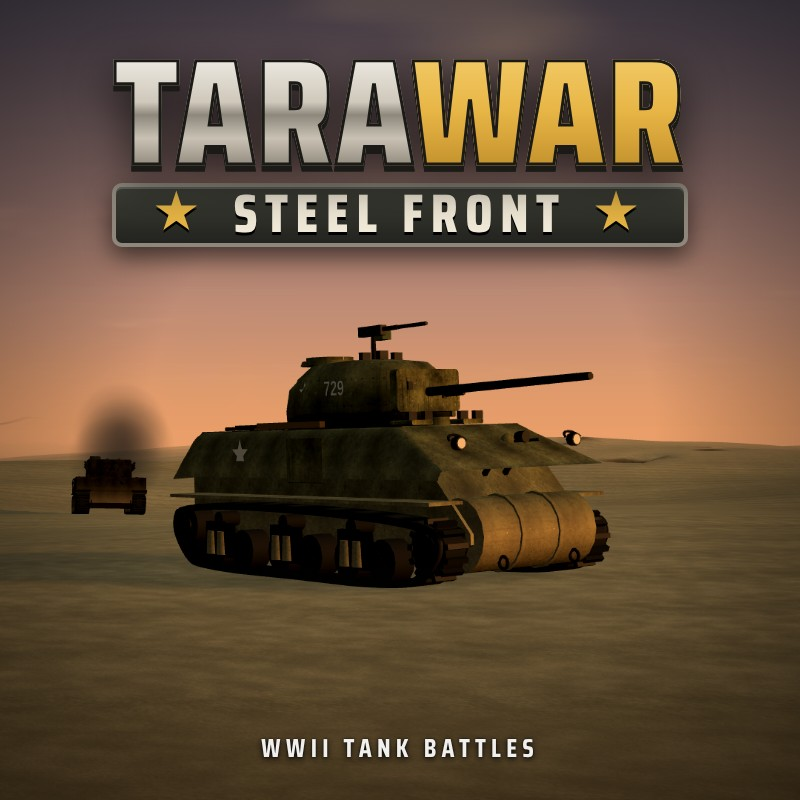
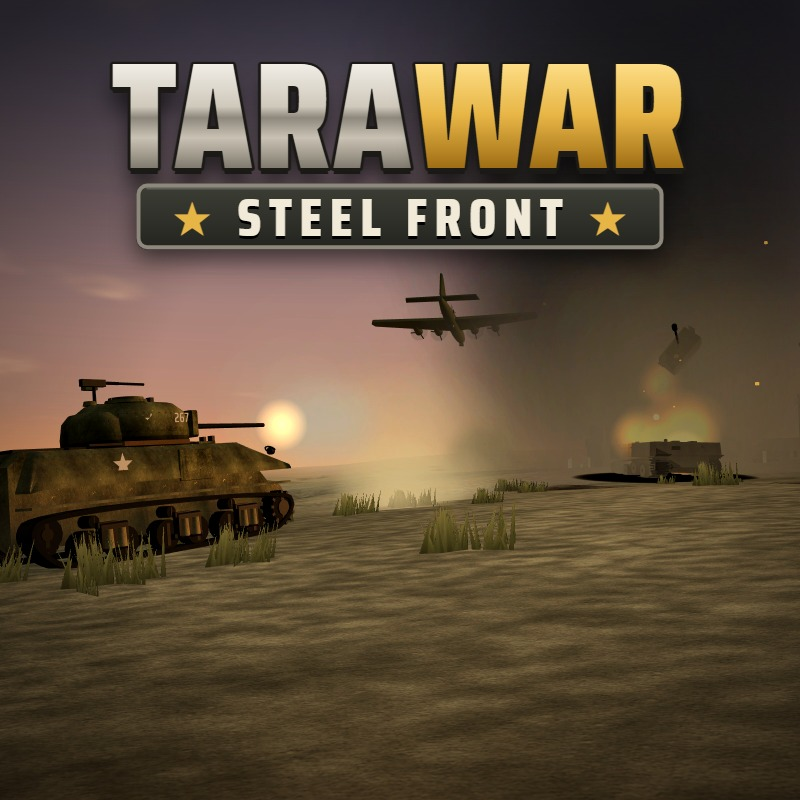
CrazyGames: portadas nuevas con acción y fondo del menú igual a la portada
- Portadas de portadas-juego/ rehechas con una escena del juego: Sherman
  disparando, Tiger reventando y un B-17; solo el título como texto.
- armar.py usa esa portada como fondo del menú y de la carga en el paquete
  (antes iba la ilustración con el hongo nuclear y aviones modernos).

diff --git a/herramientas/crazygames/armar.py b/herramientas/crazygames/armar.py
@@ -19,9 +19,14 @@ for x in LLEVAR:
 # la plataforma: el juego sabe que corre en CrazyGames (crazy.js carga el SDK, saca el inicio de sesión y la portada)
 with open(os.path.join(DEST,'js','plataforma.js'),'w',encoding='utf-8') as f:
     f.write("window.PLATAFORMA={id:'crazygames',premio:%s};\n"%('true' if premio else 'false'))
-# en CrazyGames el juego arranca en inglés: la portada con "Steel Front" y el título en inglés
-FONDO=os.path.join(RAIZ,'img','portada-en.jpg')   # la ilustración con "Steel Front"
-if os.path.exists(FONDO): shutil.copy2(FONDO,os.path.join(DEST,'img','portada-nueva.jpg'))
+# en CrazyGames el juego arranca en inglés y el título va en inglés.
+# Fondo del menú y de la carga: la portada de CrazyGames hecha con el juego (la misma que la miniatura del sitio), en los dos
+# idiomas (idioma.js cambia portada-nueva por portada-en en inglés). Antes iba la ilustración con el hongo nuclear y aviones modernos.
+FONDO=os.path.join(RAIZ,'herramientas','crazygames','portadas-juego','portada-1920x1080.jpg')
+if not os.path.exists(FONDO): FONDO=os.path.join(RAIZ,'img','portada-en.jpg')
+for n in ('portada-nueva.jpg','portada-en.jpg'): shutil.copy2(FONDO,os.path.join(DEST,'img',n))
+# la portada es 16:9 con el logo arriba: alineada arriba para que en pantallas anchas no se corte el logo
+with open(os.path.join(DEST,'css','juego.css'),'a',encoding='utf-8') as f: f.write('\n.homeArt{background-position:center top}\n')
 ih=os.path.join(DEST,'index.html'); h=open(ih,encoding='utf-8').read().replace('TaraWar: Frente de Acero','TaraWar: Steel Front')
 open(ih,'w',encoding='utf-8').write(h)
 mf=os.path.join(DEST,'manifest.json'); m=open(mf,encoding='utf-8').read().replace('TaraWar: Frente de Acero','TaraWar: Steel Front')

diff --git a/herramientas/crazygames/LEEME.md b/herramientas/crazygames/LEEME.md
@@ -38,3 +38,4 @@ Probar en la PC: abrir el juego con `?plataforma=crazygames&premio=1` en localho
 - **PEGI 12**: sin sangre (`bloodMat` invisible) ni desmembramientos (blast/crush → caída normal); civiles y animales no mueren, se asustan y huyen; sin "Civil abatido".
 - **Idioma por el locale del SDK** (`user.systemInfo.locale`, si no, inglés): `idioma.js` arranca con el idioma del navegador y `cgLocale` corrige con el del SDK (recarga una vez y guarda `tw2_lang`). En localhost el SDK dice `en-US`, así que siempre pasa a inglés.
 - **Primera batalla de 2 minutos** (6/11/2026, pedido de Sebastián: antes duraba ~13 min con 400 tickets y al final no se entendía): `js/arranque.js` pone un reloj abajo al centro (`#firstClock`) con el objetivo una vez que termina el entrenador; a los 2:00 gana el que tiene más puntos capturados (empate: tu equipo). Resumen simple de esa batalla: Victoria/Derrota, tus bajas y capturas, la plata ganada, "Next battle" y la tabla completa detrás de "Show scoreboard". `?corta=1` fuerza la batalla corta para probar.
+- **Portadas y fondo del menú nuevos** (6/11/2026): `portadas-juego/portada-*.jpg` son ahora una escena de acción armada en el juego (El Alamein al atardecer: Sherman disparando, Tiger reventando con la torre en el aire, B-17), sin el texto "WWII TANK BATTLES" (CrazyGames: en la portada solo el título). `armar.py` usa `portada-1920x1080.jpg` como fondo del menú y de la carga (`img/portada-nueva.jpg` y `img/portada-en.jpg` del paquete, alineado arriba): ya no va la ilustración con el hongo nuclear. Videos nuevos (1920×1080 y 1080×1620, sin sonido, arrancan con la portada): se entregaron aparte, no están en el repo.
